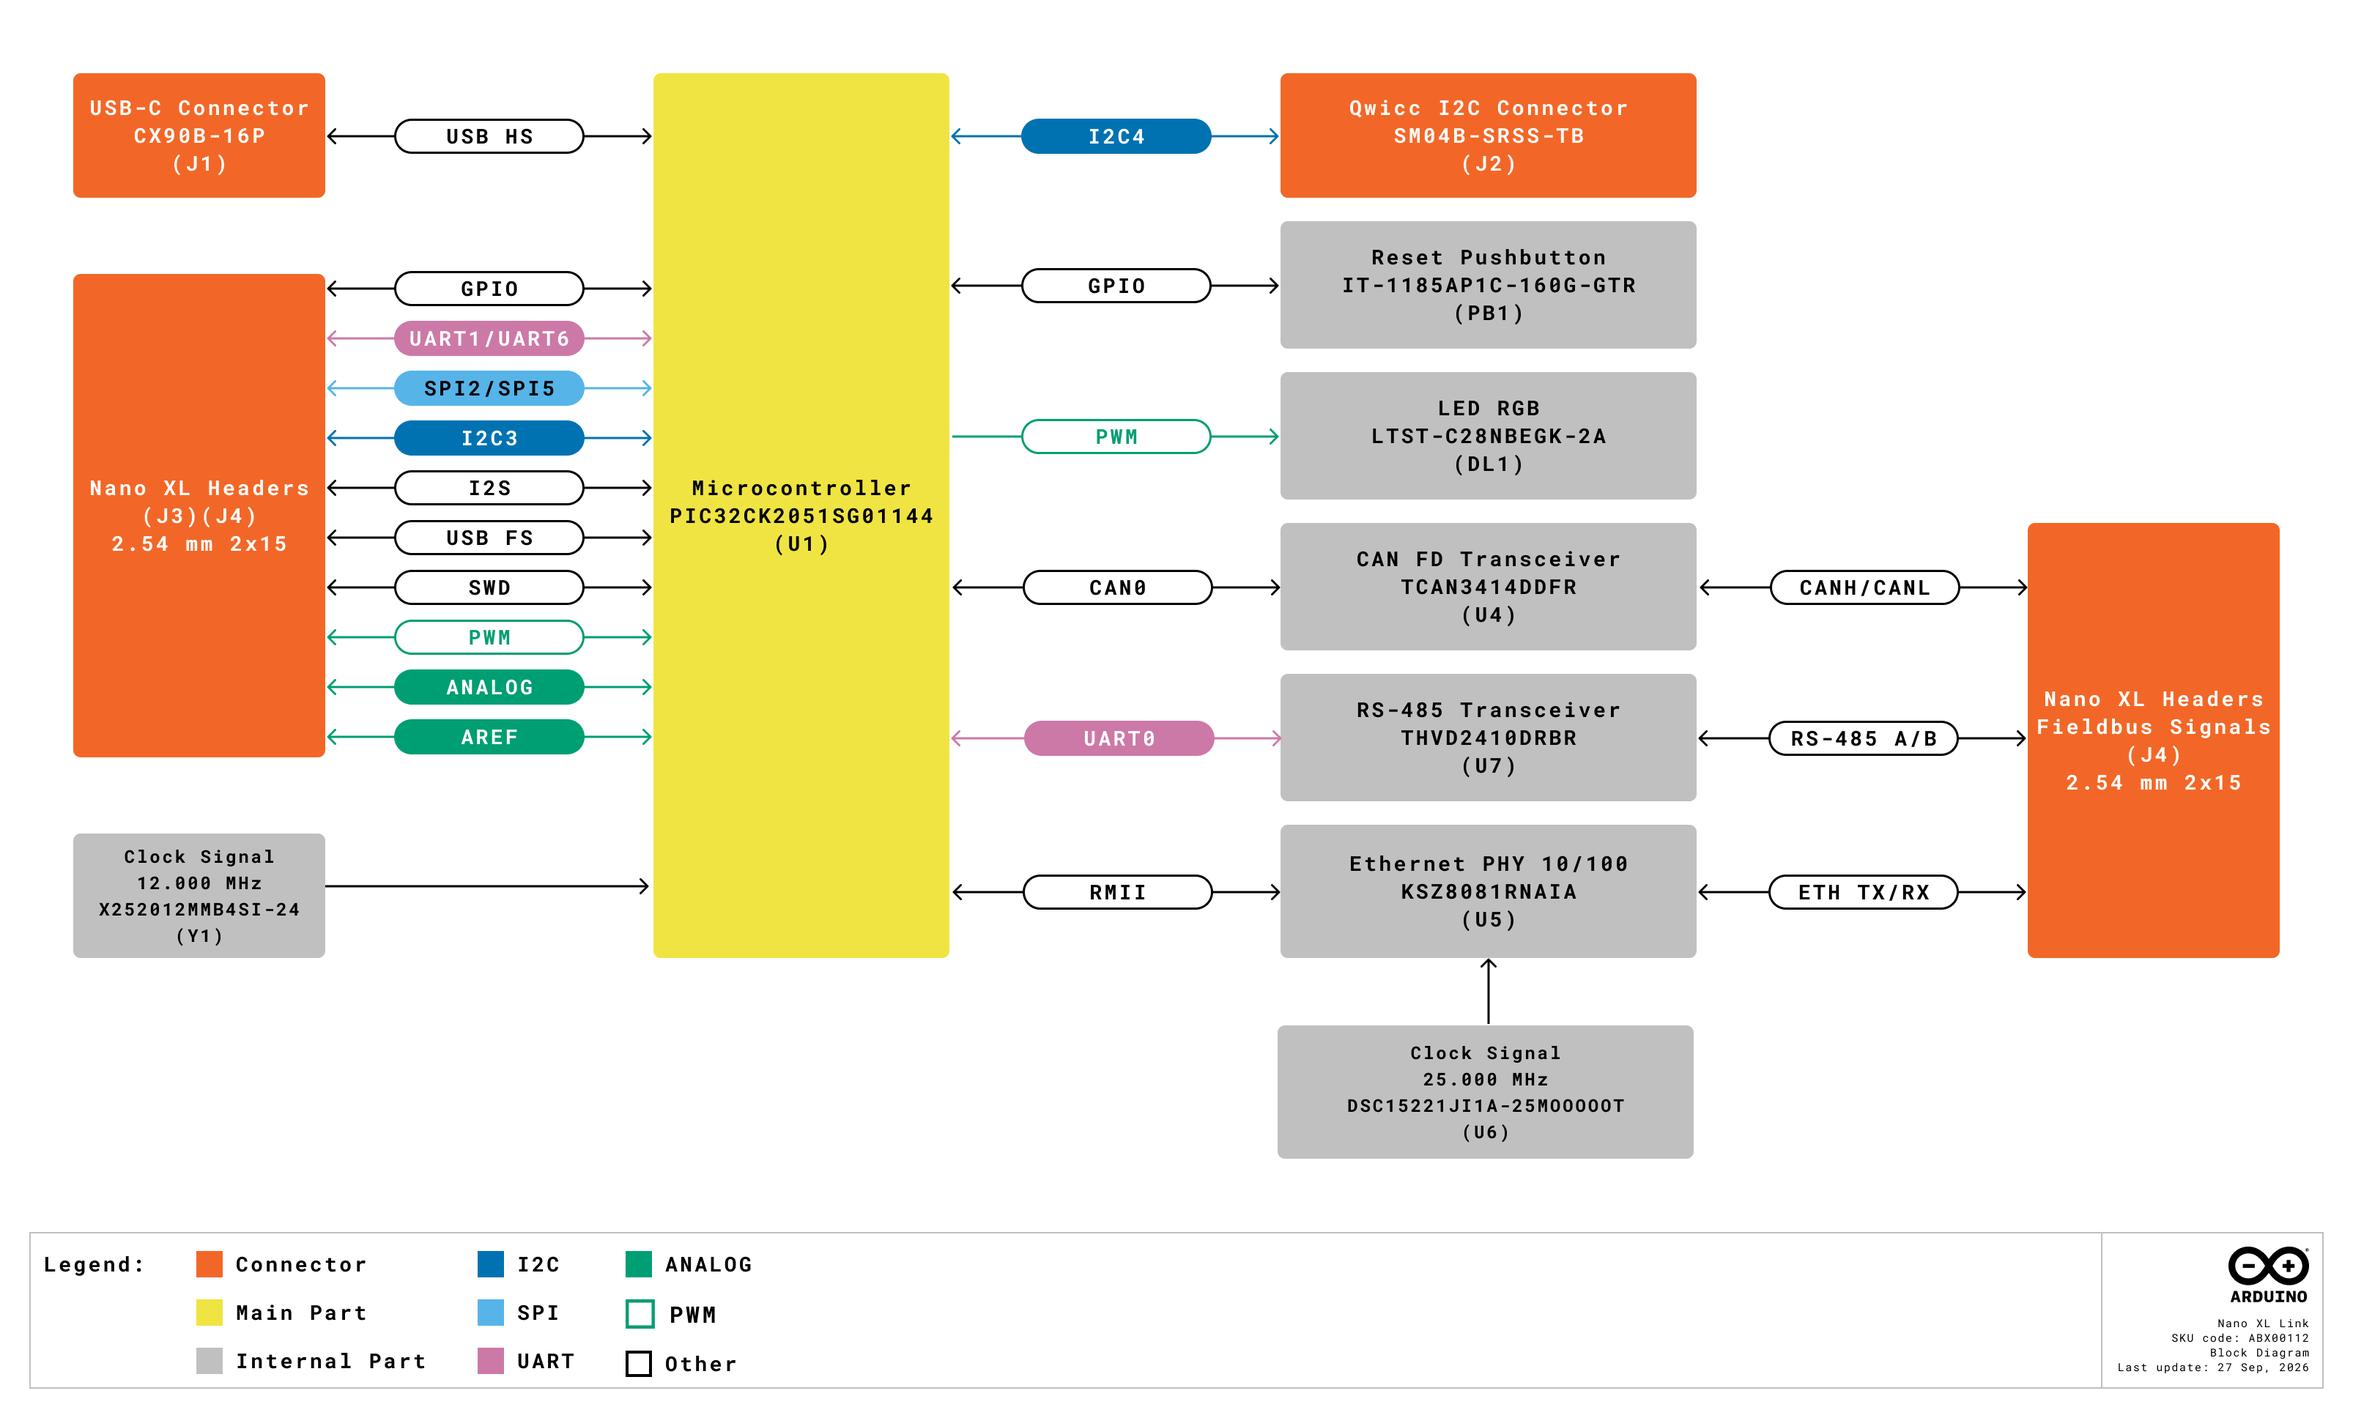
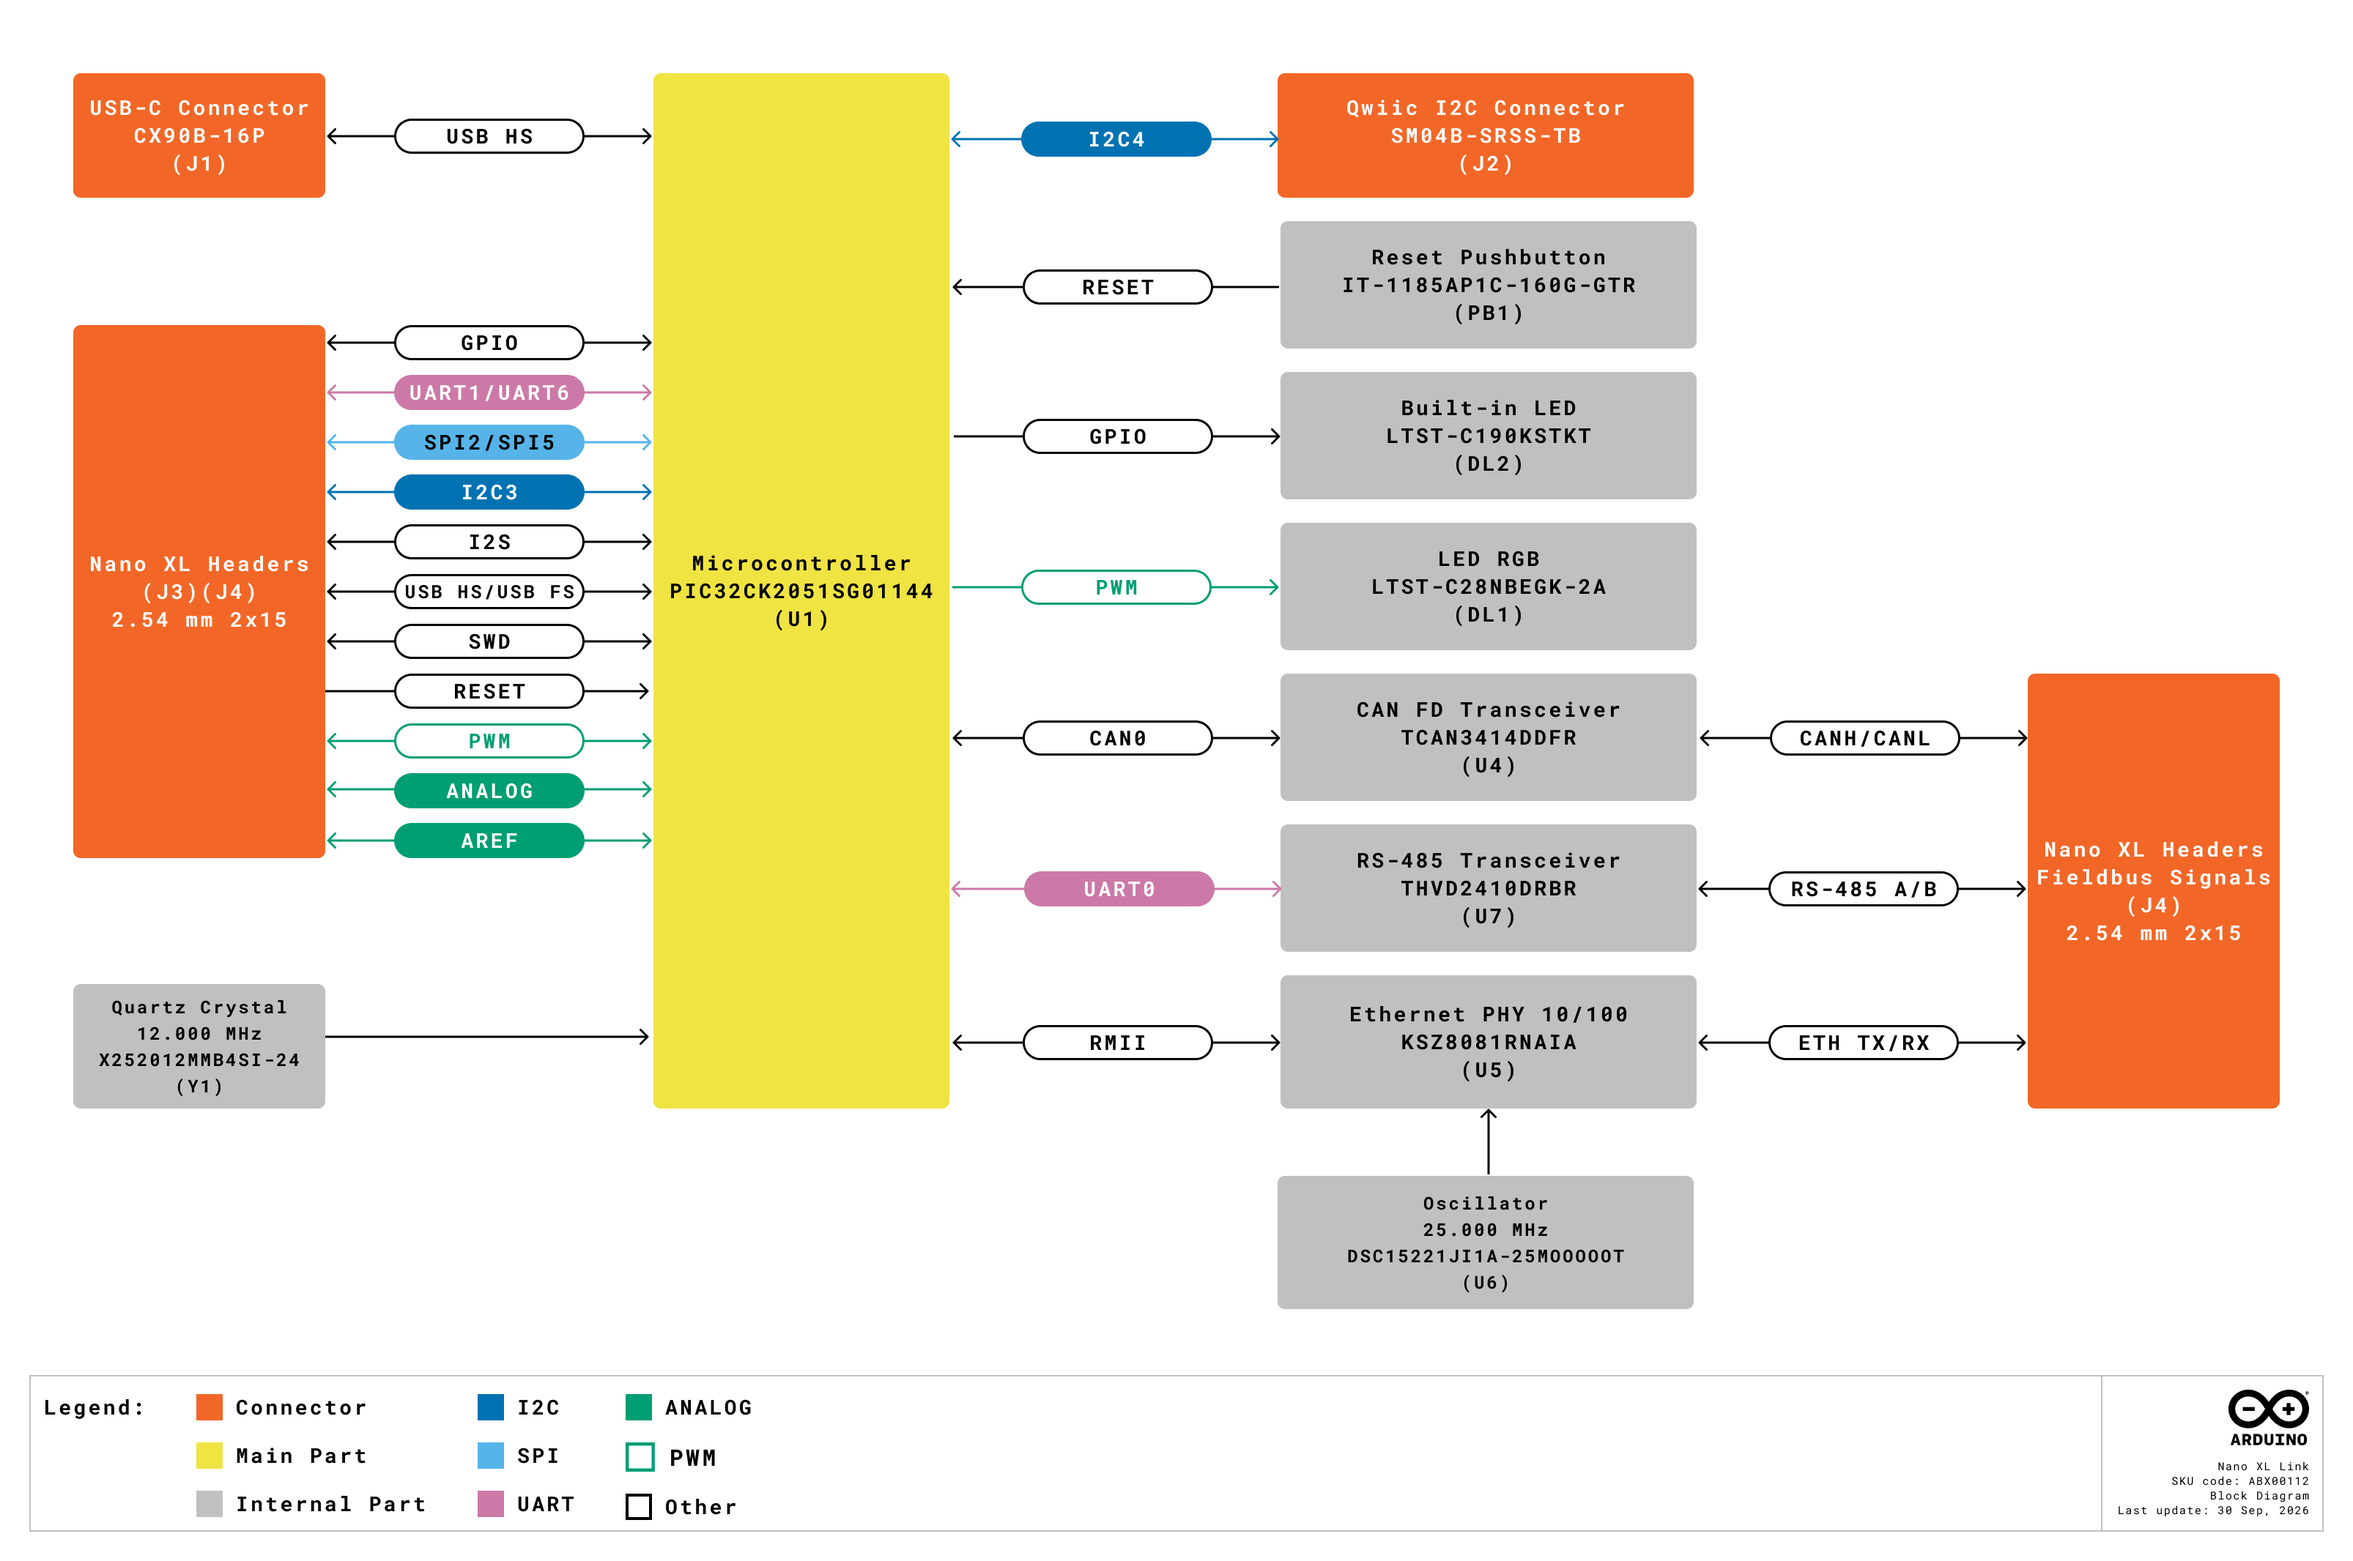
Content update (content, block diagram and power tree)

diff --git a/content/hardware/nano/boards/nano-xl-link/datasheet/datasheet.md b/content/hardware/nano/boards/nano-xl-link/datasheet/datasheet.md
@@ -86,7 +86,9 @@ The Nano XL Link combines an Arm® Cortex®-M33 microcontroller with onboard CAN
 |                     RAM                    | 512 kB                                                                                                            |
 |              Hardware Security              | Integrated Hardware Security Module (HSM)                                                                         |
 |               External Clock               | 12 MHz crystal (X252012MMB4SI-24)                                                                                 |
-| Peripherals Used on the Nano XL Link Board | USB HS, USB FS, CAN0 (CAN FD), ENET (RMII), UART0, UART1, UART6, SPI2, SPI5, I2C3, I2C4, I2S, ADC, TCC (PWM), SWD |
+|      Peripherals Exposed on the Headers     | USB HS, USB FS, UART1, UART6, SPI2, SPI5, I2C3, I2S, ADC, TCC (PWM), SWD                                          |
+| Peripherals Connected to Onboard Transceivers | CAN0 (CAN FD transceiver), UART0 (RS-485 transceiver), ENET/RMII (Ethernet PHY)                                   |
+|     Peripheral Connected to the Qwiic Connector    | I2C4                                                                                                              |
  
 <caption>Table 2. Nano XL Link microcontroller details</caption>
 
@@ -100,8 +102,8 @@ The Nano XL Link combines an Arm® Cortex®-M33 microcontroller with onboard CAN
 
 | **Interface** |          **Transceiver**         | **Details**                                                                                                                                                                                                                                                                                     |
 |:-------------:|:--------------------------------:|-------------------------------------------------------------------------------------------------------------------------------------------------------------------------------------------------------------------------------------------------------------------------------------------------|
-|     CAN FD    | TCAN3414DDFR (Texas Instruments) | +3.3 VDC CAN FD transceiver connected to the microcontroller's CAN0 peripheral; CANH/CANL signals available on the headers; 120 Ω termination selectable via solder jumper (SJ1, open by default)                                                                                                                |
-|     RS-485    | THVD2410DRBR (Texas Instruments) | +3.3 VDC RS-485 transceiver connected to the microcontroller's UART0 peripheral; driver enable (DE) controlled by the UART0 RTS signal and receiver enable (RE) by the UART0 CTS signal; A/B signals available on the headers; 120 Ω termination selectable via solder jumper (SJ2, open by default)                                                          |
+|     CAN FD    | TCAN3414DDFR (Texas Instruments) | +3.3 VDC CAN FD transceiver connected to the microcontroller's CAN0 peripheral; CANH/CANL signals available on the headers; 120 Ω termination selectable via solder jumper (SJ1, closed by default)                                                                                                                |
+|     RS-485    | THVD2410DRBR (Texas Instruments) | +3.3 VDC RS-485 transceiver connected to the microcontroller's UART0 peripheral; driver enable (DE) controlled by the UART0 RTS signal and receiver enable (RE) by the UART0 CTS signal; A/B signals available on the headers; 120 Ω termination selectable via solder jumper (SJ2, closed by default)                                                          |
 |    Ethernet   |    KSZ8081RNAIA (Microchip)      | 10/100 Mbps industrial temperature range Ethernet PHY connected to the microcontroller's Ethernet MAC through an RMII interface; 25 MHz reference oscillator (DSC1522JI1A-25M00000T); auto-negotiation enabled by default (100 Mbps default speed); TX/RX differential pairs and link/activity LED signal available on the headers; magnetics and RJ45 connector not included on the board |
  
 <caption>Table 3. Nano XL Link fieldbus interfaces</caption>
@@ -109,12 +111,13 @@ The Nano XL Link combines an Arm® Cortex®-M33 microcontroller with onboard CAN
 </div>
 
 <div style="background-color: rgba(0, 170, 228, 0.2); border-left: 6px solid rgba(0, 120, 180, 1); margin: 20px 0; padding: 15px;">
-<p style="text-align: justify;"><strong>Note:</strong> The 120 Ω termination resistors of the CAN FD (SJ1) and RS-485 (SJ2) interfaces are <strong>open by default</strong>. Close the corresponding solder jumper only when the Nano XL Link is located at one end of the bus. The Ethernet magnetics and the RJ45 connector are not included on the Nano XL Link. The PHY TX/RX differential pairs are routed to the headers and must be terminated on a carrier board.</p>
+<p style="text-align: justify;"><strong>Note:</strong> The 120 Ω termination resistors of the CAN FD (SJ1) and RS-485 (SJ2) interfaces are <strong>enabled by default</strong> (solder jumpers closed). Open the corresponding solder jumper when the Nano XL Link is not located at one end of the bus. The Ethernet magnetics and the RJ45 connector are not included on the Nano XL Link. The PHY TX/RX differential pairs are routed to the headers and must be terminated on a carrier board.</p>
 </div>
 
 ### Related Products
  
 - Arduino® Nano XL Link Connector Carrier (SKU: ASX00090)
+- Arduino® Nano XL Link Relay Expansion (SKU: ASX00091)
 
 <div style="page-break-after: always;"></div>
 
@@ -171,7 +174,7 @@ The Nano XL Link headers pinout is shown in Figure 1.
 - **Power:** VIN, VBUS (+5 VDC), 3.3V (+3.3 VDC), GND, AREF
 - **Analog:** A0–A7 (ADC inputs)
 - **Digital/PWM:** D2–D9 (TCC waveform outputs), additional digital I/Os
-- **Communication:** SPI2, SPI5, I2C3, I2S (WS, CK, SDI, SDO), UART1, UART6, USB FS (D+/D-)
+- **Communication:** SPI2, SPI5, I2C3, I2S (WS, CK, SDI, SDO), UART1, UART6, USB HS (D+/D-, shared with the USB-C® connector), USB FS (D+/D-)
 - **Fieldbus:** CANH/CANL, RS-485 A/B, Ethernet TX+/TX-/RX+/RX-, Ethernet link/activity LED signal
 - **System:** RESET, SWDIO, SWCLK
 
@@ -188,9 +191,9 @@ An overview of the Nano XL Link high-level architecture is illustrated in Figure
 <div style="text-align:justify;">
 
 Figure 3 shows the power options available on the Nano XL Link and illustrates the main system power architecture.
- 
+
 ![Figure 3. Power architecture of the Nano XL Link](assets/Nano_XL_Link_Power_Tree.png)
- 
+
 <p style="text-align: justify;">The Nano XL Link can be powered through the USB-C® connector (+5 VDC) or the VIN pin on the headers (+7 to +24 VDC). Both inputs feed the onboard step-down converter (MPQ4334), which generates the +3.3 VDC rail that supplies the microcontroller, the transceivers, the Ethernet PHY, the Qwiic connector, and the onboard LEDs. VBUS and VIN are protected by TVS diodes, and a load switch (MP5077) delays the VBUS signal to the microcontroller's VBUS pin to ensure correct power sequencing; this load switch is not user-controllable.</p>
 
 </div>
@@ -214,7 +217,7 @@ Figure 3 shows the power options available on the Nano XL Link and illustrates t
 <p style="text-align: justify;">The board features a Qwiic connector (SM04B-SRSS-TB) connected to the microcontroller's I2C4 peripheral. The SDA and SCL lines have 5.1 kΩ pull-up resistors to +3.3 VDC, and the connector provides +3.3 VDC power to the connected modules. This connector allows direct connection of Modulino® nodes and other Qwiic-compatible devices.</p>
 
 <div style="background-color: #FFFFE0; border-left: 6px solid #FFD700; margin: 20px 0; padding: 15px;">
-<p style="text-align: justify;"><strong>Power Tip:</strong> The Qwiic connector supplies +3.3 VDC to the connected modules from the onboard step-down converter. The current drawn by the connected modules counts toward the 1 A maximum load of the +3.3 VDC rail; take it into account when powering the board through the USB-C® connector.</p>
+<p style="text-align: justify;"><strong>Power Tip:</strong> The Qwiic connector supplies +3.3 VDC to the connected modules from the onboard step-down converter. The current drawn by these modules counts toward the 1 A maximum load of the +3.3 VDC rail. When the board is powered only through the USB-C® connector, the total current available for the board and all its external loads is additionally limited by the USB source (500 mA for USB 2.0).</p>
 </div>
 
 ### LEDs and Push-Button
@@ -236,7 +239,8 @@ Figure 3 shows the power options available on the Nano XL Link and illustrates t
 <div style="text-align:justify;">
  
 - **Nano XL Link:** Provides the microcontroller, the CAN FD, RS-485, and Ethernet transceivers, and the extended pinout.
-- **Nano XL Link Connector Carrier:** DIN-rail-mountable carrier board compatible with standard 4U DIN-rail open enclosures. It provides the Nano XL Link a socket, an Ethernet connector, screw terminal connectors, a GPIO connector, and a Qwiic connector. It also serves as a reference design for custom carrier boards.
+- **Nano XL Link Connector Carrier:** DIN-rail-mountable carrier board compatible with standard 4U DIN-rail open enclosures. It provides a socket for the Nano XL Link, an Ethernet connector, screw terminal connectors, a GPIO connector, a 2×5 debug header, and a Qwiic connector. It also serves as a reference design for custom carrier boards.
+- **Nano XL Link Relay Expansion:** Module with eight relays (up to 10 A per channel), connected through the Qwiic interface. Onboard DIP switches allow chaining up to eight units, for a total of 64 relay outputs. It fits inside 4U DIN-rail open enclosures alongside the Connector Carrier.
 
 </div>
 
@@ -365,4 +369,4 @@ Exemptions: No exemptions are claimed.
  
 |  **Date**  | **Revision** |   **Changes**   |
 |:----------:|:------------:|:---------------:|
-| 27/09/2026 |      1       |  First release  |
+| 22/09/2026 |      1       |  First release  |
